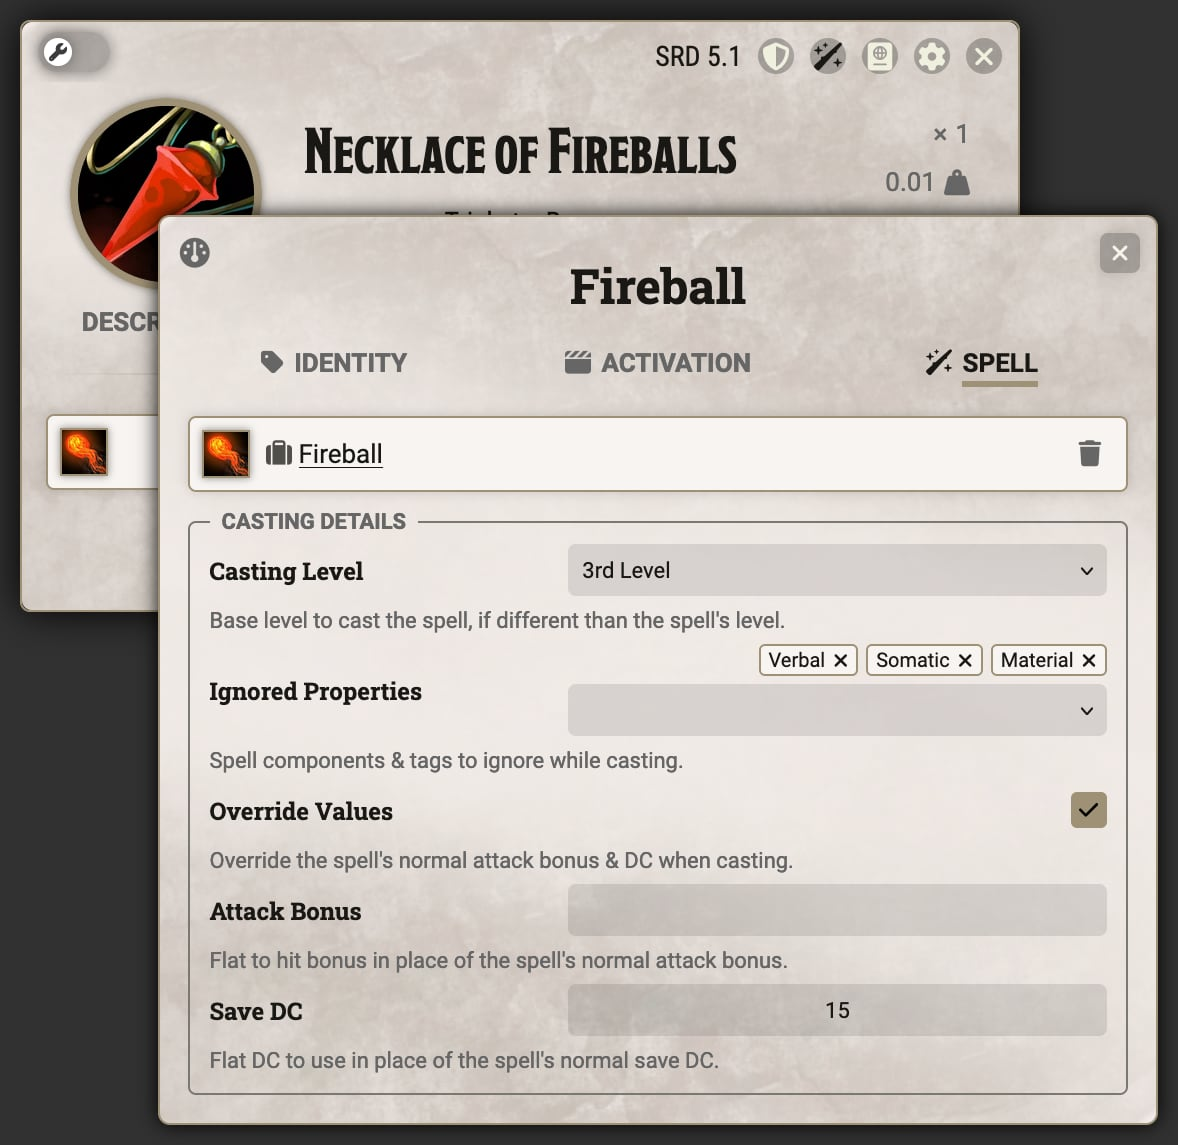
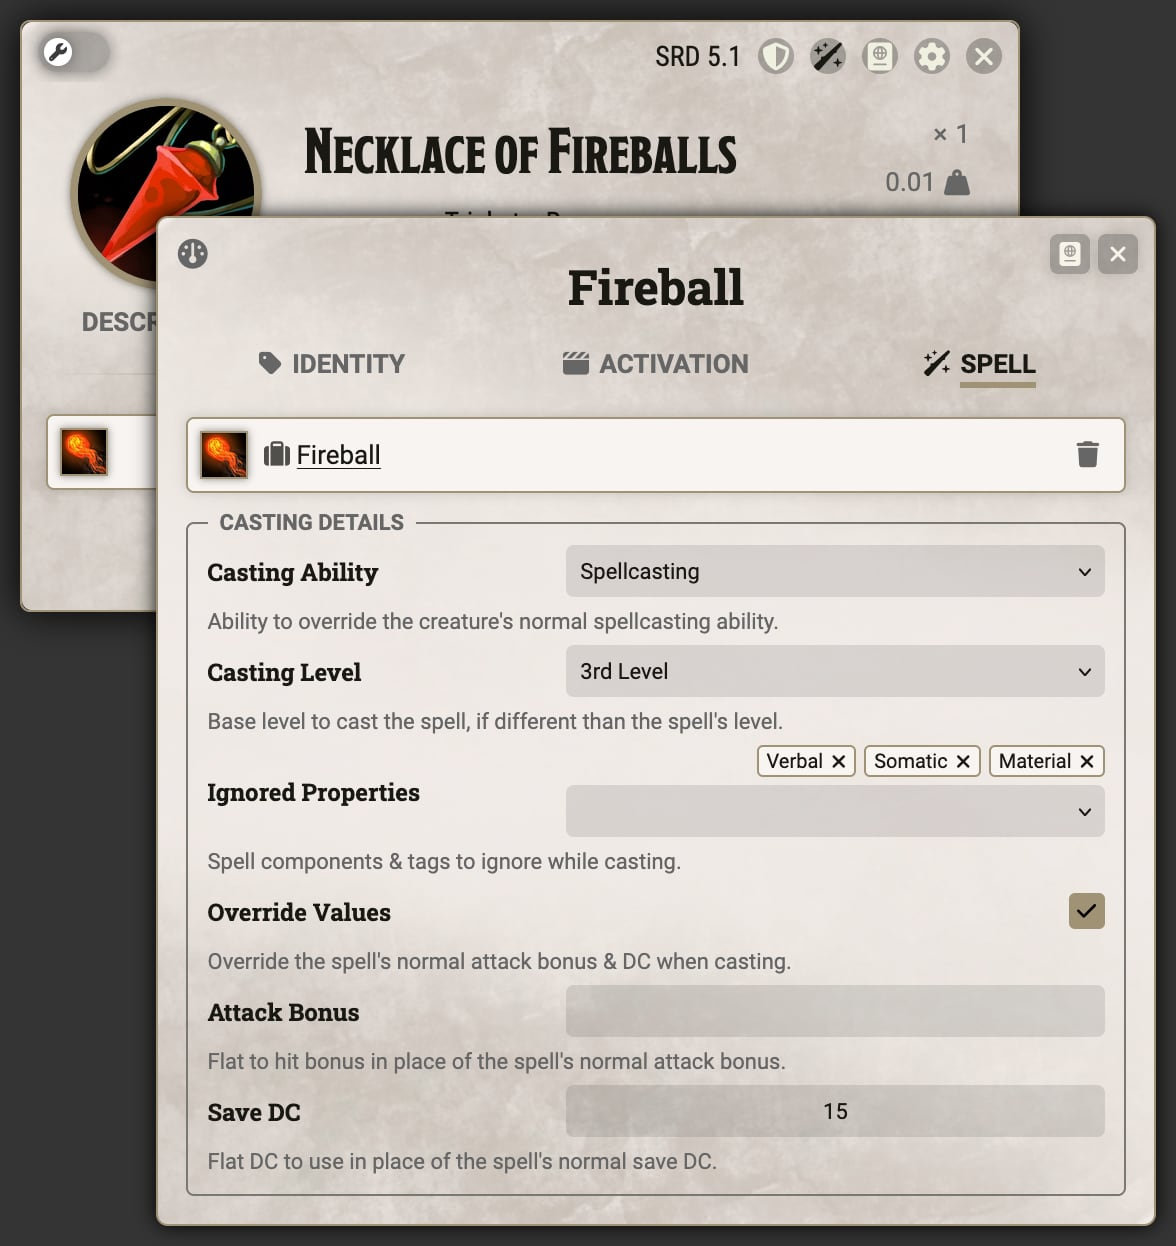
Update activity pages with new changes
- Adjust images & docs for renamed Use activity
- Document the "Casting Ability" for the cast activity

Changed region(s): [[0.0, 0.0, 0.9796, 1.0]]

diff --git a/wiki/Activity-Type-Utility.md b/wiki/Activity-Type-Utility.md
@@ -1,19 +1,19 @@
-![Up to date as of 4.0.0](https://img.shields.io/static/v1?label=dnd5e&message=4.0.0&color=informational)
+![Up to date as of 4.2.0](https://img.shields.io/static/v1?label=dnd5e&message=4.2.0&color=informational)
 
-The Utility activity allows for rolling an arbitrary formula, adding effects, or simply indicating something occurs without specific functionality. It acts as a catch-all activity for any case where a more specific activity doesn’t make sense.
+The Use activity allows for rolling an arbitrary formula, adding effects, or simply indicating something occurs without specific functionality. It acts as a catch-all activity for any case where a more specific activity doesn’t make sense.
 
 
-## Configuring Utility
+## Configuring Use
 
-After creating the Utility activity the configuration sheet will open to the "Identity" tab. In addition to the standard activity identity options (see the [Activities Overview](Activities.md) for more details), Utility also includes a *Utility Roll Prompt* option. This controls whether the rolling dialog is shown when rolling the utility roll (if present).
+After creating the Use activity the configuration sheet will open to the "Identity" tab. In addition to the standard activity identity options (see the [Activities Overview](Activities.md) for more details), Use also includes a *Roll Prompt* option. This controls whether the rolling dialog is shown when rolling the activity’s roll (if present).
 
-![Utility Sheet - Identity Tab](https://raw.githubusercontent.com/foundryvtt/dnd5e/publish-wiki/wiki/images/activities/utility-identity.jpg)
+![Use Sheet - Identity Tab](https://raw.githubusercontent.com/foundryvtt/dnd5e/publish-wiki/wiki/images/activities/utility-identity.jpg)
 
-### Utility Roll
+### Roll
 
-![Utility Sheet - Effect Tab](https://raw.githubusercontent.com/foundryvtt/dnd5e/publish-wiki/wiki/images/activities/utility-effect.jpg)
+![Use Sheet - Effect Tab](https://raw.githubusercontent.com/foundryvtt/dnd5e/publish-wiki/wiki/images/activities/utility-effect.jpg)
 
-The "Effect" tab contains the configuration information for the utility roll:
+The "Effect" tab contains the configuration information for the activity’s roll:
 - *Roll Label*: Label used for the rolling button in place of the default "Roll" label
-- *Roll Formula*: Formula used for the utility roll
+- *Roll Formula*: Formula used for the activity’s roll
 - *Visible to All*: Determines whether the rolling button be visible to all players, or only to the player who used the activity and the GM

diff --git a/wiki/Activity-Type-Cast.md b/wiki/Activity-Type-Cast.md
@@ -1,4 +1,4 @@
-![Up to date as of 4.1.0](https://img.shields.io/static/v1?label=dnd5e&message=4.1.0&color=informational)
+![Up to date as of 4.2.0](https://img.shields.io/static/v1?label=dnd5e&message=4.2.0&color=informational)
 
 The Cast activity allows for casting a spell through an item.
 
@@ -30,6 +30,7 @@ The "Spell" tab contains the rest of the unique properties for the Cast activity
 ![Cast Sheet - Spell Tab](https://raw.githubusercontent.com/foundryvtt/dnd5e/publish-wiki/wiki/images/activities/cast-effect.jpg)
 
 The "Casting Details" section contains options that affect how casting will occur
+- *Casting Ability*: Sets the activity that determines spell save DC, spell attack rolls, and the `@mod` value in formulas if something other than the player’s default spellcasting ability is desired
 - *Casting Level*: Sets the base level at which the spell is cast. Increasing it ensures the spell is always cast at at least that level, and any scaling will be on top of the casting level
 - *Ignored Properties*: Properties on the spell that will be ignored when casting through this item. Removing "Concentration" property here is not enough to ensure the spell doesn't require concentration, the Duration in the "Activation" tab will also need to be overridden
 - *Override Values*: If checked will display additional options to replace the attack bonus and save DC for the spell. By default spells will use the character's spell attack bonus and save DC, but certain items include fixed values which should be entered in the revealed fields
